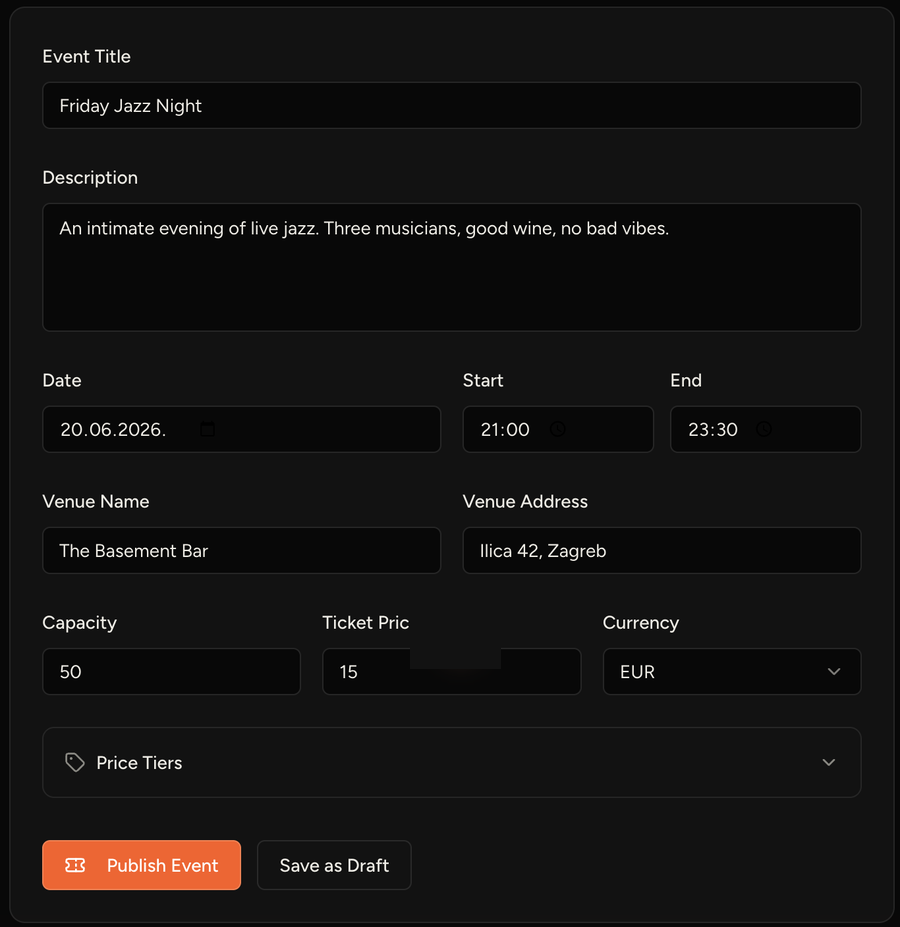
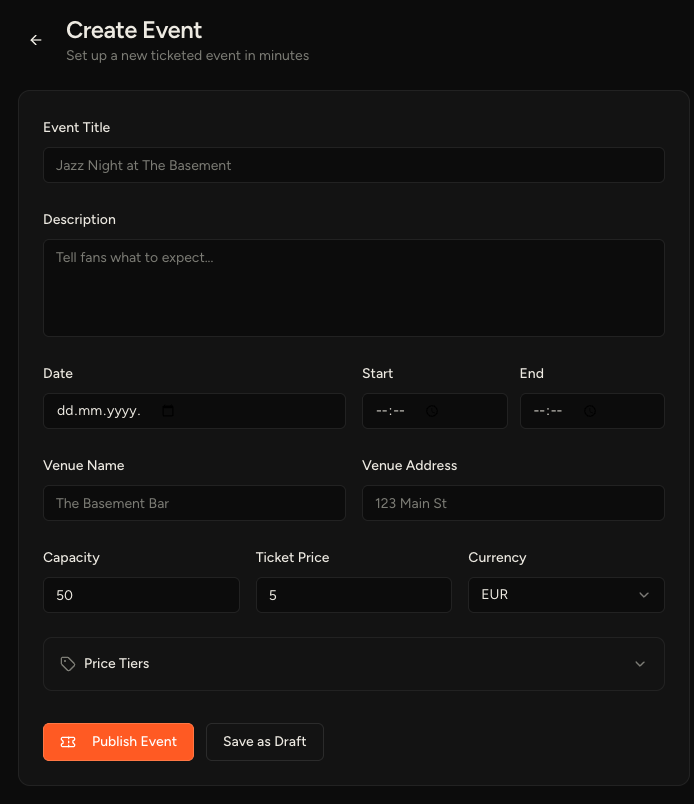
Screenshot, unified cards, comparison table + Entrio, testimonials
- Hero: new clean Create Event form screenshot (v6), 1fr/1fr grid, max-width 480px
- How it works: converted to start-card style (uppercase bold, watermark numbers)
- How you get paid: converted to start-card style, same card-grid container
- Comparison table: own section with eyebrow/h2, 4-column grid + Entrio column
- Testimonials: 3 placeholder cards before FAQ (replace with real quotes)

diff --git a/index.html b/index.html
@@ -15,7 +15,7 @@
 <meta name="twitter:description" content="Simple ticketing for independent venue owners. Set up an event in minutes, sell tickets with zero fees to fans, and scan the door from your phone.">
 <meta name="twitter:image" content="https://evntry.app/og-image.png">
 <title>Evntry — Ticketing for local venues</title>
-<link rel="preload" as="image" href="app-screenshot-card.png?v=5">
+<link rel="preload" as="image" href="app-screenshot-card.png?v=6">
 <link rel="icon" type="image/svg+xml" href="/favicon.svg">
 <link rel="apple-touch-icon" href="/favicon.svg">
 <link rel="preconnect" href="https://fonts.googleapis.com">
@@ -99,9 +99,9 @@
   .hero {
     min-height: 100vh;
     display: grid;
-    grid-template-columns: 1.15fr 0.85fr;
+    grid-template-columns: 1fr 1fr;
     align-items: center;
-    gap: 48px;
+    gap: 56px;
     padding: 120px 6vw 80px;
     position: relative;
     overflow: hidden;
@@ -181,7 +181,7 @@
 
   .app-preview {
     width: 100%;
-    max-width: 440px;
+    max-width: 480px;
     position: relative;
   }
   .app-preview::before {
@@ -389,58 +389,28 @@
     line-height: 1.65;
   }
 
-  .steps {
+  /* Shared unified card grid — used by steps AND payouts */
+  .card-grid {
     display: grid;
     grid-template-columns: repeat(3, 1fr);
     gap: 2px;
+    background: var(--border);
+    border: 1px solid var(--border);
+    border-radius: 12px;
+    overflow: hidden;
     margin-top: 48px;
   }
 
-  .step {
-    background: var(--surface);
-    border: 1px solid var(--border);
-    padding: 32px 28px;
-  }
-  .step:first-child { border-radius: 10px 0 0 10px; }
-  .step:last-child  { border-radius: 0 10px 10px 0; }
-
-  .step-num {
-    font-family: 'Barlow Condensed', sans-serif;
-    font-weight: 800;
-    font-size: 36px;
-    line-height: 1;
-    color: var(--accent);
-    margin-bottom: 16px;
-  }
+  .steps { /* alias for card-grid */ }
 
   .step-tag {
     display: inline-block;
     font-size: 11px;
     font-weight: 600;
-    letter-spacing: 0.12em;
+    letter-spacing: 0.14em;
     text-transform: uppercase;
     color: var(--accent);
-    background: var(--accent-dim);
-    border-radius: 4px;
-    padding: 3px 8px;
-    margin-bottom: 12px;
-  }
-
-  .step-body h3 {
-    font-family: 'Barlow Condensed', sans-serif;
-    font-weight: 700;
-    font-size: 26px;
-    text-transform: uppercase;
-    letter-spacing: 0.02em;
-    margin-bottom: 10px;
-    color: var(--text);
-    line-height: 1;
-  }
-
-  .step-body p {
-    font-size: 15px;
-    color: var(--muted);
-    line-height: 1.65;
+    margin-bottom: 0;
   }
 
   .diff-grid {
@@ -481,7 +451,7 @@
   .diff-card p { font-size: 14px; color: var(--muted); line-height: 1.65; }
 
   .compare {
-    max-width: 620px;
+    max-width: 820px;
     background: var(--surface);
     border: 1px solid var(--border);
     border-radius: 10px;
@@ -491,7 +461,7 @@
 
   .compare-row {
     display: grid;
-    grid-template-columns: 2fr 1fr 1fr;
+    grid-template-columns: 2fr 1fr 1fr 1fr;
     padding: 14px 24px;
     font-size: 14px;
     border-bottom: 1px solid var(--border);
@@ -680,25 +650,18 @@
     /* Diff cards — single column */
     .diff-grid { grid-template-columns: 1fr; }
 
-    /* How it works — stack */
-    .steps { grid-template-columns: 1fr; }
-    .step:first-child { border-radius: 10px 10px 0 0; }
-    .step:last-child  { border-radius: 0 0 10px 10px; }
-
-    /* Payout steps — stack */
-    .payout-grid { grid-template-columns: 1fr; }
-    .payout-step:first-child { border-radius: 10px 10px 0 0; }
-    .payout-step:last-child  { border-radius: 0 0 10px 10px; }
+    /* Card grid (steps + payouts) — stack on mobile */
+    .card-grid { grid-template-columns: 1fr; }
 
     /* Start grid — single column */
     .start-grid { grid-template-columns: 1fr; }
 
-    /* Compare table: smaller text */
-    .compare-row { font-size: 13px; padding: 12px 16px; gap: 10px; }
+    /* Compare table: scroll horizontally + smaller text */
+    .compare { overflow-x: auto; }
+    .compare-row { font-size: 12px; padding: 12px 14px; gap: 8px; grid-template-columns: 1.5fr 0.8fr 0.8fr 0.8fr; }
 
-    /* Steps: tighter */
-    .step { grid-template-columns: 44px 1fr; gap: 16px; padding: 28px 0; }
-    .step-num { font-size: 40px; }
+    /* Testimonials — stack */
+    .testimonial-grid { grid-template-columns: 1fr; }
 
     /* Email row: stack */
     .email-row { flex-direction: column; }
@@ -712,14 +675,40 @@
     footer { flex-direction: column; align-items: flex-start; gap: 8px; }
   }
 
-  /* Payouts section */
-  .payout-grid { display: grid; grid-template-columns: repeat(3,1fr); gap: 2px; margin-top: 48px; }
-  .payout-step { background: var(--surface); border: 1px solid var(--border); padding: 32px 28px; }
-  .payout-step:first-child { border-radius: 10px 0 0 10px; }
-  .payout-step:last-child  { border-radius: 0 10px 10px 0; }
-  .payout-num { font-family:'Barlow Condensed',sans-serif; font-weight:800; font-size:36px; color:var(--accent); line-height:1; margin-bottom:16px; }
-  .payout-step h3 { font-size:16px; font-weight:600; color:var(--text); margin-bottom:10px; }
-  .payout-step p  { font-size:14px; color:var(--muted); line-height:1.65; }
+  /* Testimonials */
+  .testimonial-grid {
+    display: grid;
+    grid-template-columns: repeat(3, 1fr);
+    gap: 16px;
+    margin-top: 48px;
+  }
+  .testimonial-card {
+    background: var(--surface);
+    border: 1px solid var(--border);
+    border-radius: 10px;
+    padding: 28px 24px;
+    display: flex;
+    flex-direction: column;
+    gap: 20px;
+  }
+  .testimonial-text {
+    font-size: 15px;
+    color: var(--text);
+    line-height: 1.7;
+    font-style: italic;
+    flex: 1;
+  }
+  .testimonial-text::before { content: '\201C'; color: var(--accent); font-size: 22px; font-style: normal; line-height: 0; vertical-align: -4px; margin-right: 2px; }
+  .testimonial-author { display: flex; align-items: center; gap: 12px; }
+  .testimonial-avatar {
+    width: 36px; height: 36px;
+    background: var(--accent-dim); border-radius: 50%;
+    display: flex; align-items: center; justify-content: center;
+    font-size: 11px; font-weight: 700; color: var(--accent); flex-shrink: 0;
+    font-family: 'Figtree', sans-serif;
+  }
+  .testimonial-name { font-size: 14px; font-weight: 600; color: var(--text); margin-bottom: 2px; }
+  .testimonial-venue { font-size: 12px; color: var(--muted); }
 
   /* FAQ accordion */
   .faq-list { max-width: 680px; margin: 0 auto; }
@@ -913,7 +902,7 @@
   </div>
 
   <div class="app-preview">
-    <img src="app-screenshot-card.png?v=5" alt="Evntry event creation form — set up an event in minutes" class="app-preview-img" fetchpriority="high">
+    <img src="app-screenshot-card.png?v=6" alt="Evntry event creation form — set up an event in minutes" class="app-preview-img" fetchpriority="high">
   </div>
 </section>
 
@@ -957,30 +946,21 @@
   <h2>From idea<br>to door-ready<br>in <em>5 minutes</em></h2>
   <p class="section-sub">Three steps. No training required.</p>
 
-  <div class="steps">
-    <div class="step">
-      <div class="step-num">01</div>
-      <div class="step-body">
-        <span class="step-tag">Venue app</span>
-        <h3>Create your event</h3>
-        <p>Open Evntry on your phone. Add the name, date, ticket price, and a poster. Set a capacity or leave it open. Hit publish. Done.</p>
-      </div>
+  <div class="card-grid">
+    <div class="start-card" data-num="1">
+      <span class="start-step">Venue app</span>
+      <h3>Create your event</h3>
+      <p>Open Evntry on your phone. Add the name, date, ticket price, and a poster. Set a capacity or leave it open. Hit publish. Done.</p>
     </div>
-    <div class="step">
-      <div class="step-num">02</div>
-      <div class="step-body">
-        <span class="step-tag">Fans</span>
-        <h3>Share your link</h3>
-        <p>You get a shareable ticket link instantly. Post it anywhere. Fans buy directly — no extra app needed, no fees added on top of your price.</p>
-      </div>
+    <div class="start-card" data-num="2">
+      <span class="start-step">Fans</span>
+      <h3>Share your link</h3>
+      <p>You get a shareable ticket link instantly. Post it anywhere. Fans buy directly — no extra app needed, no fees added on top of your price.</p>
     </div>
-    <div class="step">
-      <div class="step-num">03</div>
-      <div class="step-body">
-        <span class="step-tag">Door</span>
-        <h3>Scan &amp; go</h3>
-        <p>On the night, scan QR codes at the door from your phone. See live how many people have arrived. No printer, no clipboard, no chaos.</p>
-      </div>
+    <div class="start-card" data-num="3">
+      <span class="start-step">Door</span>
+      <h3>Scan &amp; go</h3>
+      <p>On the night, scan QR codes at the door from your phone. See live how many people have arrived. No printer, no clipboard, no chaos.</p>
     </div>
   </div>
 </section>
@@ -1059,59 +1039,112 @@
   <p class="eyebrow">Money</p>
   <h2>How you<br><em>get paid.</em></h2>
   <p class="section-sub" style="max-width:560px;">Evntry never holds your money. Stripe handles every payment and deposits directly into your bank account.</p>
-  <div class="payout-grid">
-    <div class="payout-step">
-      <div class="payout-num">01</div>
+  <div class="card-grid">
+    <div class="start-card" data-num="1">
+      <span class="start-step">Step 01</span>
       <h3>You set the price</h3>
       <p>Publish your event with the ticket price you choose. Fans pay exactly that — no booking fees added on their side.</p>
     </div>
-    <div class="payout-step">
-      <div class="payout-num">02</div>
+    <div class="start-card" data-num="2">
+      <span class="start-step">Step 02</span>
       <h3>Stripe collects payments</h3>
       <p>Every sale goes through your connected Stripe account. Industry-standard encryption. You own the transaction.</p>
     </div>
-    <div class="payout-step">
-      <div class="payout-num">03</div>
+    <div class="start-card" data-num="3">
+      <span class="start-step">Step 03</span>
       <h3>Stripe pays you directly</h3>
       <p>Payouts land in your bank account on Stripe's standard schedule — typically within 2–7 days of each sale.</p>
     </div>
   </div>
+</section>
 
-  <div class="compare" style="margin-top: 52px;">
+<div class="divider"></div>
+
+<section>
+  <p class="eyebrow">How we compare</p>
+  <h2>Evntry vs<br><em>the alternatives.</em></h2>
+  <p class="section-sub">Side-by-side on the things that matter to independent venues.</p>
+
+  <div class="compare">
     <div class="compare-row compare-header">
       <span></span>
       <span class="ev">Evntry</span>
       <span>Eventbrite</span>
+      <span>Entrio</span>
     </div>
     <div class="compare-row">
       <span class="compare-feature">Fees added for fans</span>
       <span class="ev-val check">None</span>
-      <span class="cross">Up to 10–15% per ticket</span>
+      <span class="cross">Up to 10–15%</span>
+      <span class="cross">Service fee added</span>
     </div>
     <div class="compare-row">
       <span class="compare-feature">Event setup time</span>
       <span class="ev-val check">Under 5 min</span>
-      <span class="cross">Up to 30 minutes</span>
+      <span class="cross">Up to 30 min</span>
+      <span class="cross">15–20 min</span>
     </div>
     <div class="compare-row">
       <span class="compare-feature">Runs on your phone</span>
       <span class="ev-val check">Yes</span>
       <span class="cross">Web-first</span>
+      <span class="cross">Limited</span>
     </div>
     <div class="compare-row">
       <span class="compare-feature">Contracts required</span>
       <span class="ev-val check">No</span>
       <span class="cross">Sometimes</span>
+      <span class="cross">Yes</span>
     </div>
     <div class="compare-row">
-      <span class="compare-feature">Fan subscription layer</span>
-      <span class="ev-val check">Included</span>
-      <span class="cross">Not available</span>
+      <span class="compare-feature">You own attendee data</span>
+      <span class="ev-val check">Always</span>
+      <span class="cross">Platform retains it</span>
+      <span class="cross">Shared</span>
     </div>
   </div>
 
   <div style="margin-top: 28px; text-align: center;">
     <a href="pricing.html" style="font-size: 14px; color: var(--muted); border-bottom: 1px solid var(--border); padding-bottom: 2px; transition: color 0.15s;" onmouseover="this.style.color='var(--text)'" onmouseout="this.style.color='var(--muted)'">See full pricing →</a>
+  </div>
+</section>
+
+<div class="divider"></div>
+
+<section>
+  <p class="eyebrow">From the people using it</p>
+  <h2>What venue owners<br><em>are saying.</em></h2>
+  <div class="testimonial-grid">
+    <div class="testimonial-card">
+      <p class="testimonial-text">We switched from Eventbrite after they charged our fans €3 on top of a €10 ticket. With Evntry, what we write is what they pay. Our sell-through rate went up immediately.</p>
+      <div class="testimonial-author">
+        <div class="testimonial-avatar">MK</div>
+        <div>
+          <p class="testimonial-name">Marko K.</p>
+          <p class="testimonial-venue">Bar owner, Zagreb</p>
+        </div>
+      </div>
+    </div>
+    <div class="testimonial-card">
+      <p class="testimonial-text">Setting up our first event took 4 minutes. I timed it. The ticket link was ready before I'd finished my coffee. We sold out in 48 hours.</p>
+      <div class="testimonial-author">
+        <div class="testimonial-avatar">AJ</div>
+        <div>
+          <p class="testimonial-name">Ana J.</p>
+          <p class="testimonial-venue">Club promoter, Split</p>
+        </div>
+      </div>
+    </div>
+    <div class="testimonial-card">
+      <p class="testimonial-text">Finally an app that works on my phone at the door. No laptop, no printing, no chaos. My staff scan tickets in seconds and we can see live how many have arrived.</p>
+      <div class="testimonial-author">
+        <div class="testimonial-avatar">TP</div>
+        <div>
+          <p class="testimonial-name">Tomislav P.</p>
+          <p class="testimonial-venue">Live music venue, Rijeka</p>
+        </div>
+      </div>
+    </div>
   </div>
 </section>
 